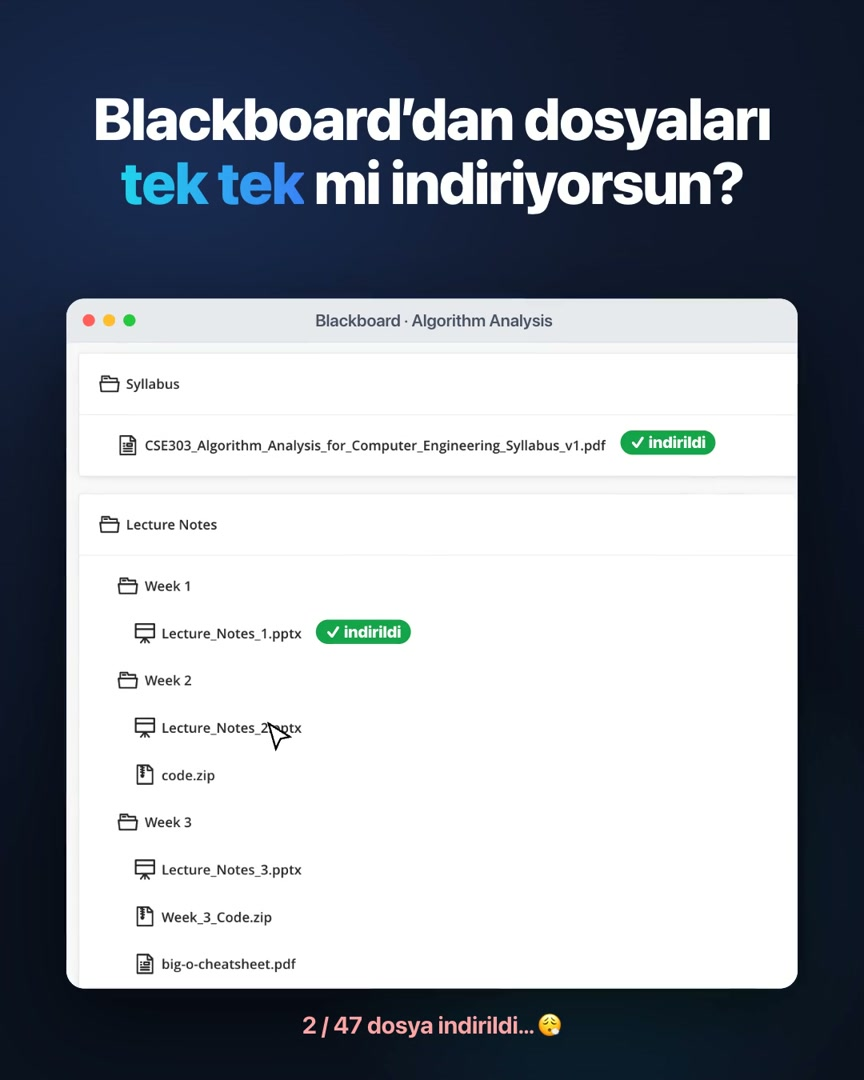
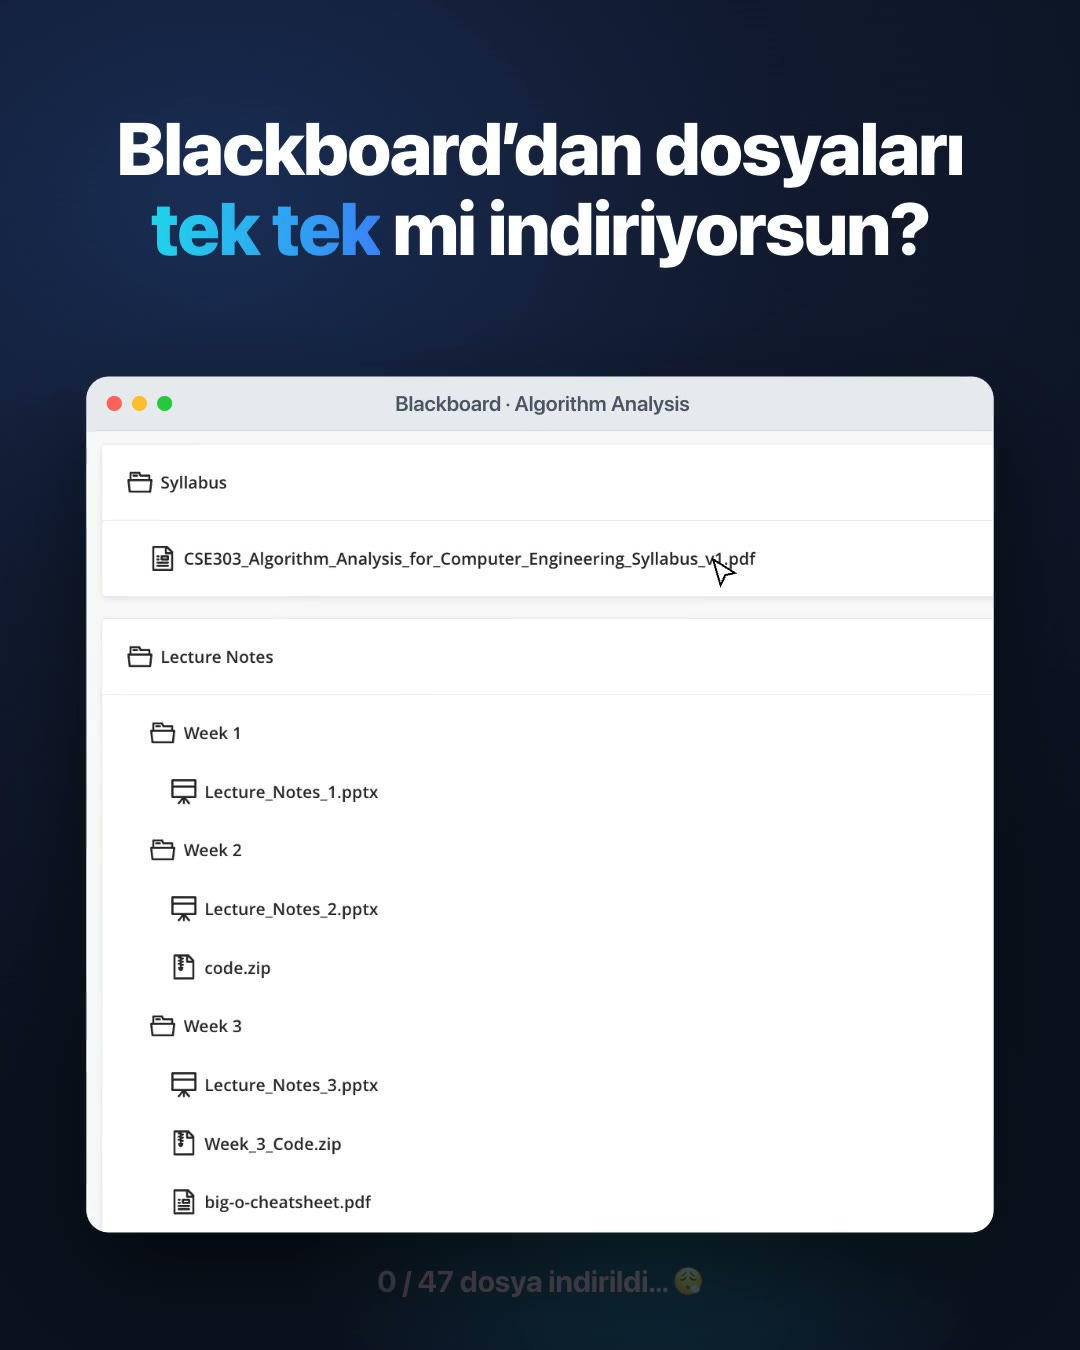
Replace site promo video

diff --git a/site/index.html b/site/index.html
@@ -56,11 +56,11 @@
       <figure class="demo">
         <div class="video-frame">
           <video id="promo-video" width="1080" height="1350" autoplay muted loop playsinline controls preload="metadata" poster="assets/promo-poster.jpg" aria-label="Blackboard Sync tanıtım videosu">
-            <source src="https://github.com/user-attachments/assets/0f6b4ad6-cb14-4a2b-b679-a48d03bbf106" type="video/mp4">
-            Tarayıcın videoyu desteklemiyor. <a href="https://github.com/user-attachments/assets/0f6b4ad6-cb14-4a2b-b679-a48d03bbf106">Tanıtım videosunu indir.</a>
+            <source src="https://github.com/user-attachments/assets/d7e1e0a7-a25b-4412-824b-52ee71d25b03" type="video/mp4">
+            Tarayıcın videoyu desteklemiyor. <a href="https://github.com/user-attachments/assets/d7e1e0a7-a25b-4412-824b-52ee71d25b03">Tanıtım videosunu indir.</a>
           </video>
         </div>
-        <figcaption><span class="caption-line" aria-hidden="true"></span> 45 saniyede Blackboard Sync <span aria-hidden="true">↗</span></figcaption>
+        <figcaption><span class="caption-line" aria-hidden="true"></span> 59 saniyede Blackboard Sync <span aria-hidden="true">↗</span></figcaption>
       </figure>
     </section>
 

diff --git a/site/README.md b/site/README.md
@@ -27,6 +27,6 @@ Cloudflare Workers Builds settings:
 
 `.assetsignore` keeps the Worker code, Wrangler config and this README out of the published assets.
 
-`_headers` applies security headers and a one-day asset cache; HTML/CSS/JS revalidate because their filenames are not versioned. The 45-second MP4 is hosted as a GitHub user attachment and loaded by the page. Native video controls allow pausing and sound; reduced-motion preferences disable automatic playback when JavaScript is enabled.
+`_headers` applies security headers and a one-day asset cache; HTML/CSS/JS revalidate because their filenames are not versioned. The 59-second MP4 is hosted as a GitHub user attachment and loaded by the page. Native video controls allow pausing and sound; reduced-motion preferences disable automatic playback when JavaScript is enabled.
 
 The social card references the existing public repository banner by absolute URL, so sharing works before a custom site domain is chosen. Page assets are local except for the hosted video. Header and footer logos use 128 px PNGs with 256 px retina variants; the favicon is a separate 32 px PNG. Review screenshots are linked from an earlier commit in the pull request and are not included in the deployed folder.

diff --git a/README.md b/README.md
@@ -37,6 +37,7 @@ irm https://raw.githubusercontent.com/UmutYLCN/blackboard-sync/main/install.ps1 
 Şifreni yalnızca okulunun kendi giriş sayfasına yazarsın; uygulama şifreni görmez ve hiçbir yere kaydetmez. Giriş oturumu yalnızca kendi bilgisayarında tutulur ve hiçbir sunucuya gönderilmez.
 
 🌐 **Web sitesi:** [blackboard-sync.umutyalcin.workers.dev](https://blackboard-sync.umutyalcin.workers.dev)
+🎬 **Tanıtım videosu:** https://github.com/user-attachments/assets/d7e1e0a7-a25b-4412-824b-52ee71d25b03
 
 ![Ziyaretçi](https://visitor-badge.laobi.icu/badge?page_id=UmutYLCN.blackboard-sync&left_text=ziyaret%C3%A7i)
 
